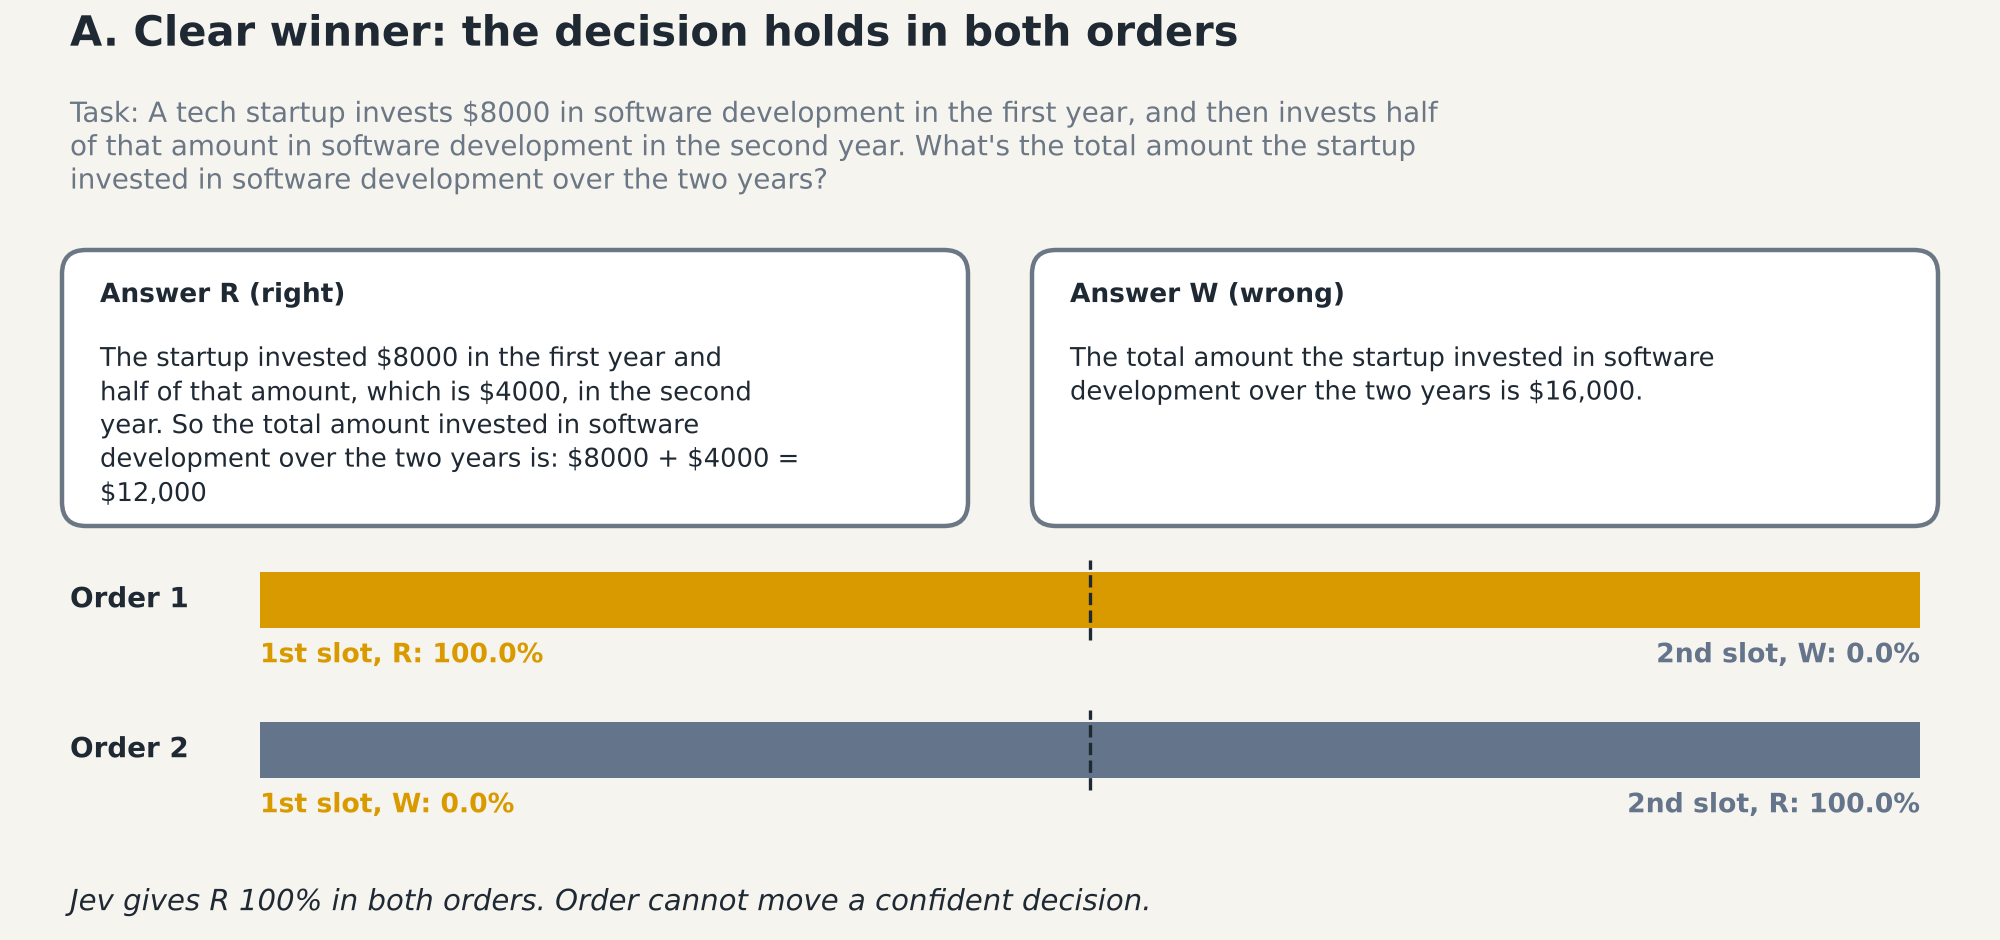
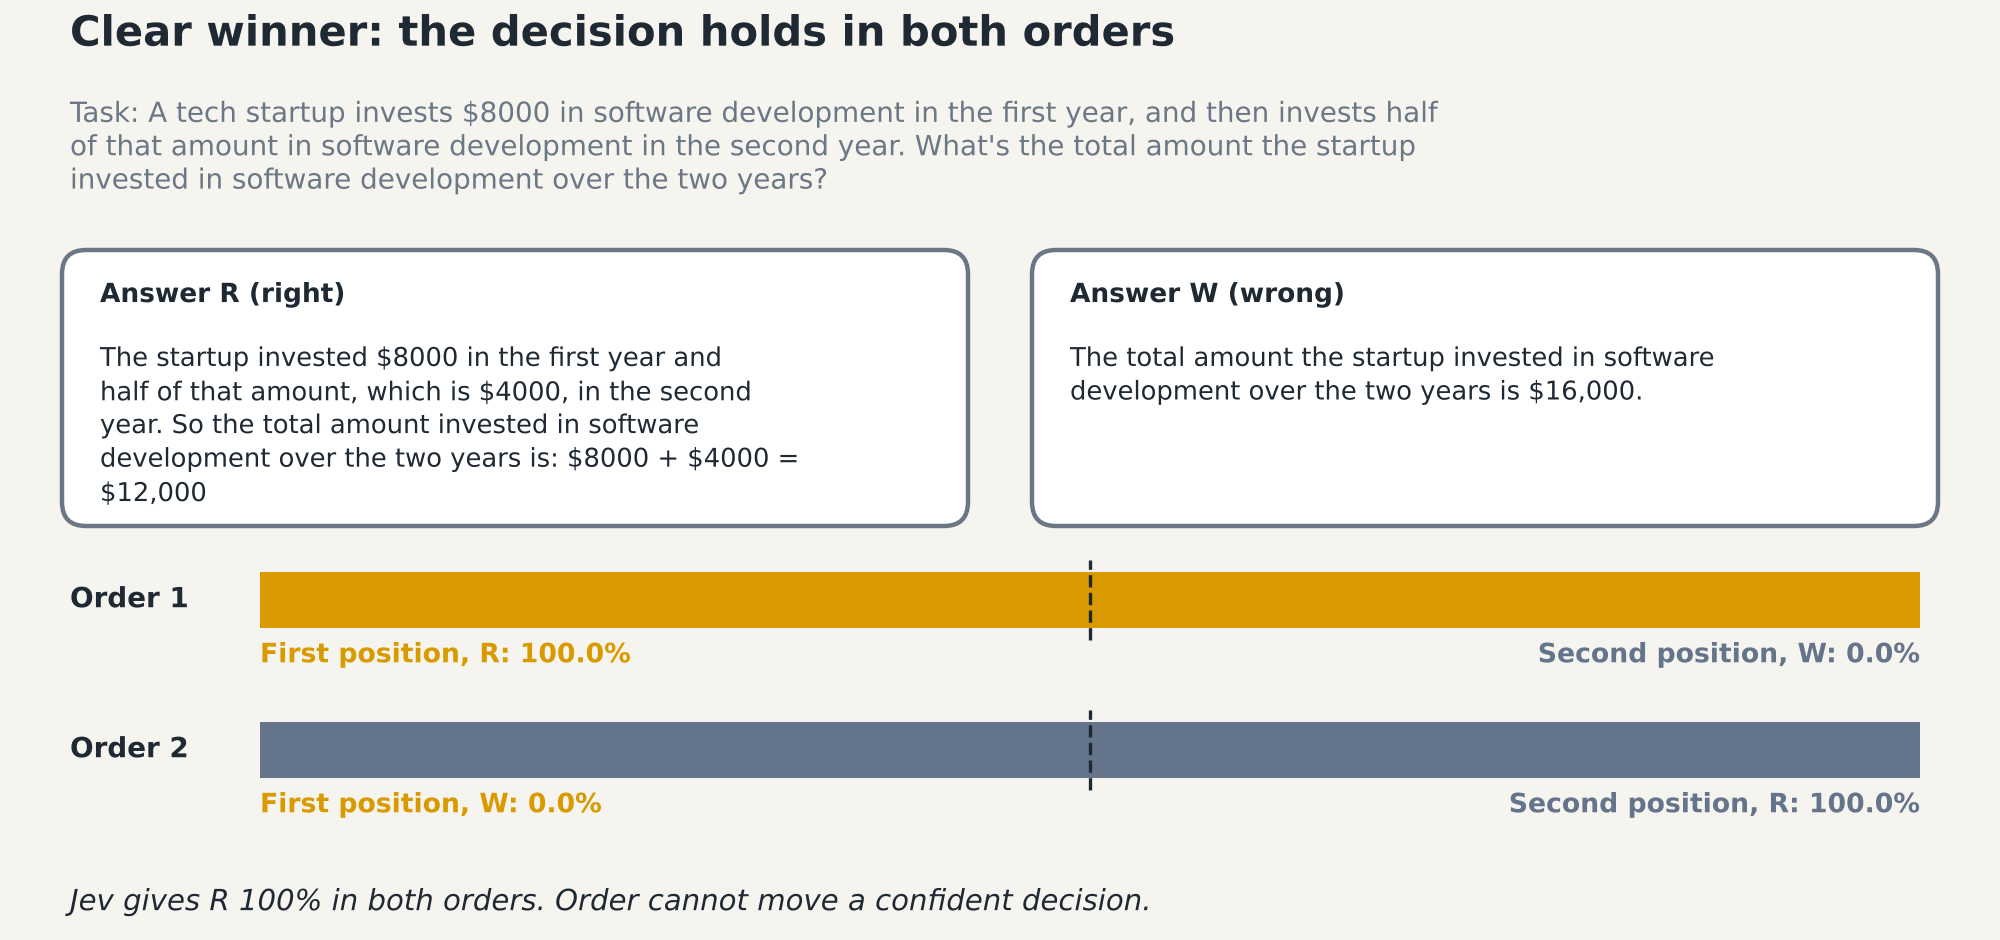
Blog media: drop panel letters, use 'position' wording in labels
Claude-Session: https://claude.ai/code/session_01BD5WKivs4zXMWVTo7emK6C

diff --git a/figures/blog/make_blog_media.py b/figures/blog/make_blog_media.py
@@ -2,7 +2,7 @@
 
 Colour rules (same thing, same colour, in every visual):
   question types: Choice blue, Noul orange, Score green
-  slots:          first slot gold, second slot slate
+  slots:          first position gold, second position slate
   noise floor:    light grey
 Numbers: worked examples from posthoc-20261118/worked-example-candidates.json (MT-Bench, Choice,
 legacy format, mean of 16 Jev calls per order); charts from results/paper-data-amendment010.json
@@ -50,7 +50,7 @@ STEPS = [
     ('2  Build pairs', 'identical copy (a true tie)\n+ pairs with small to large\nhuman-rated quality gaps'),
     ('3  Swap and repeat', 'show A then B, and B then A\nask every request twice\nalso swap question order, format'),
     ('4  Ask the judges', 'Jev 1.13: probabilities\nHaiku 4.5, DeepSeek V4 Flash:\n20 votes on 40 tasks'),
-    ('5  Measure', 'shift toward the first slot\ndecisions that flip\nchange with the quality gap'),
+    ('5  Measure', 'shift toward the first position\ndecisions that flip\nchange with the quality gap'),
 ]
 
 
@@ -118,8 +118,8 @@ def worked():
         ax.add_patch(Rectangle((x0, y), w * p, h, fc=FIRST, ec='none'))
         ax.add_patch(Rectangle((x0 + w * p, y), w * (1 - p), h, fc=SECOND, ec='none'))
         ax.plot([x0 + w / 2] * 2, [y - 0.06, y + h + 0.06], color=INK, lw=1.2, ls='--')
-        ax.text(x0, y - 0.07, f'1st slot, {lab1}: {100 * p:.1f}%', color=FIRST, fontsize=9.6, weight='bold', va='top')
-        ax.text(x0 + w, y - 0.07, f'2nd slot, {lab2}: {100 * (1 - p):.1f}%', color=SECOND, fontsize=9.6, weight='bold',
+        ax.text(x0, y - 0.07, f'First position, {lab1}: {100 * p:.1f}%', color=FIRST, fontsize=9.6, weight='bold', va='top')
+        ax.text(x0 + w, y - 0.07, f'Second position, {lab2}: {100 * (1 - p):.1f}%', color=SECOND, fontsize=9.6, weight='bold',
                 va='top', ha='right')
 
     def panel(y0, head, task, a, b, rows, verdict, bh):
@@ -133,15 +133,15 @@ def worked():
             bar(y, p, l1, l2, r); y -= 0.75
         ax.text(0.35, y + 0.2, verdict, fontsize=10.5, color=INK, va='top', style='italic')
 
-    panel(13.55, 'A. Clear winner: the decision holds in both orders', STARTUP_TASK,
+    panel(13.55, 'Clear winner: the decision holds in both orders', STARTUP_TASK,
           ('Answer R (right)', STARTUP_RIGHT), ('Answer W (wrong)', STARTUP_WRONG),
           [(1.0, 'R', 'W', 'Order 1'), (0.0, 'W', 'R', 'Order 2')],
           'Jev gives R 100% in both orders. Order cannot move a confident decision.', 1.3)
-    panel(8.82, 'B. Same answer twice: the first copy wins', ENGINE_TASK,
+    panel(8.82, 'Same answer twice: the first copy wins', ENGINE_TASK,
           ('Copy 1', ENGINE_SHORT), ('Copy 2 (identical)', ENGINE_SHORT),
           [(IDENT['order1'], 'copy 1', 'copy 2', 'Order 1'), (IDENT['order2'], 'copy 2', 'copy 1', 'Order 2')],
-          'Jev was told to split 50/50 when answers are equally good. The first slot wins both times.', 0.95)
-    panel(4.62, 'C. Close call: the decision flips with the order', ENGINE_TASK,
+          'Jev was told to split 50/50 when answers are equally good. The first position wins both times.', 0.95)
+    panel(4.62, 'Close call: the decision flips with the order', ENGINE_TASK,
           ('Answer S (short)', ENGINE_SHORT), ('Answer E (explains why)', ENGINE_LONG),
           [(NEAR['short_first'], 'S', 'E', 'Order 1'), (1 - NEAR['short_second'], 'E', 'S', 'Order 2')],
           'Human raters tied these two answers. Whichever comes second wins, so the decision flips.', 1.6)
@@ -169,7 +169,7 @@ def charts():
         ax.text(k, 100 * r['ci95'][1] + 0.5, f"{100 * r['estimate']:.1f}", ha='center', fontsize=10, weight='bold', color=c)
     ax.axhline(0, color=INK, lw=0.8)
     ax.set_xticks(range(3)); ax.set_xticklabels(['Choice', 'Noul', 'Score'])
-    ax.set_ylabel('Shift toward 1st slot\n(probability points, 0 = fair)')
+    ax.set_ylabel('Shift toward first position\n(probability points, 0 = fair)')
     ax.legend(title='single dataset', frameon=False, fontsize=8, title_fontsize=8, loc='upper right')
     fig.tight_layout(); save(fig, 'blog_f1_primacy.png')
     fig, ax = plt.subplots(figsize=(6.4, 3.8), dpi=200)
@@ -210,7 +210,7 @@ def charts():
     ax.axhline(0, color=INK, lw=0.8)
     ax.set_xticks(range(5)); ax.set_xticklabels(['0\nidentical', '1\nclosest', '2', '3', '4\nclearest'])
     ax.set_xlabel('Human-rated quality gap between the two answers')
-    ax.set_ylabel('Shift toward 1st slot\n(probability points)')
+    ax.set_ylabel('Shift toward first position\n(probability points)')
     ax.text(0.98, 0.04, 'post hoc analysis', transform=ax.transAxes, ha='right', fontsize=9, color=MUTED, style='italic')
     ax.legend(frameon=False, fontsize=9)
     fig.tight_layout(); save(fig, 'blog_posthoc_direction.png')
@@ -245,8 +245,8 @@ def animation():
         ax.add_patch(Rectangle((0.08, y), 0.84 * p, 0.055, fc=FIRST))
         ax.add_patch(Rectangle((0.08 + 0.84 * p, y), 0.84 * (1 - p), 0.055, fc=SECOND))
         ax.plot([0.5, 0.5], [y - 0.015, y + 0.07], color=INK, ls='--', lw=1)
-        ax.text(0.09, y + 0.0275, f'1st slot {100 * p:.1f}%', color='white', fontsize=10, weight='bold', va='center')
-        ax.text(0.91, y + 0.0275, f'2nd slot {100 * (1 - p):.1f}%', color='white', fontsize=10, weight='bold', va='center', ha='right')
+        ax.text(0.09, y + 0.0275, f'First position {100 * p:.1f}%', color='white', fontsize=10, weight='bold', va='center')
+        ax.text(0.91, y + 0.0275, f'Second position {100 * (1 - p):.1f}%', color='white', fontsize=10, weight='bold', va='center', ha='right')
 
     text = 'The word that does not belong\nwith the others is "engine".'
 
@@ -291,8 +291,8 @@ def animation():
             ya = 0.42 + 0.1 * np.sin(np.pi * t); yb = 0.42 - 0.1 * np.sin(np.pi * t)
             for x, y, name in ((xa, ya, 'copy A'), (xb, yb, 'copy B')):
                 answer_card(x, y, name, FIRST if x < 0.33 else SECOND, text)
-            ax.text(0.25, 0.35, '1st slot', ha='center', fontsize=10, color=FIRST, weight='bold')
-            ax.text(0.75, 0.35, '2nd slot', ha='center', fontsize=10, color=SECOND, weight='bold')
+            ax.text(0.25, 0.35, 'First position', ha='center', fontsize=10, color=FIRST, weight='bold')
+            ax.text(0.75, 0.35, 'Second position', ha='center', fontsize=10, color=SECOND, weight='bold')
             msg = {'order1': 'Order 1: copy A first', 'swap': 'Swap the seats...', 'order2': 'Order 2: copy B first'}[phase]
             ax.text(0.5, 0.2, msg, ha='center', fontsize=11.5, color=INK, weight='bold')
             ax.text(0.5, 0.12, 'Every request is also asked twice, to measure noise.', ha='center', fontsize=9.5, color=MUTED)
@@ -303,7 +303,7 @@ def animation():
             if i >= 20:
                 prob_bar(0.32, IDENT['order2'], 'Order 2 (copy B first)')
             if i >= 35:
-                ax.text(0.5, 0.15, 'Identical answers, yet the 1st slot wins both times.', ha='center', fontsize=11.5, color=INK, weight='bold')
+                ax.text(0.5, 0.15, 'Identical answers, yet the first position wins both times.', ha='center', fontsize=11.5, color=INK, weight='bold')
                 ax.text(0.5, 0.07, 'dashed line = fair 50/50 split', ha='center', fontsize=9, color=MUTED)
         elif phase == 'agg':
             tag(5)
